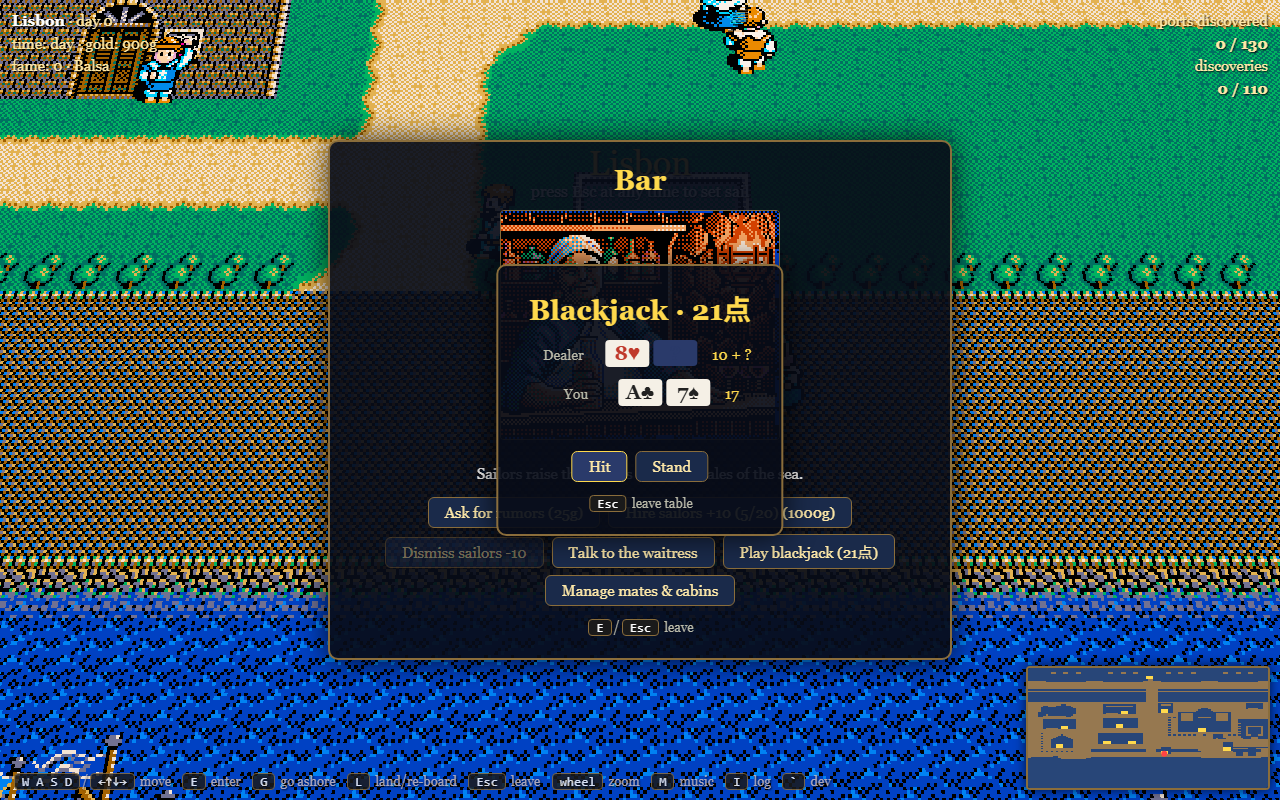
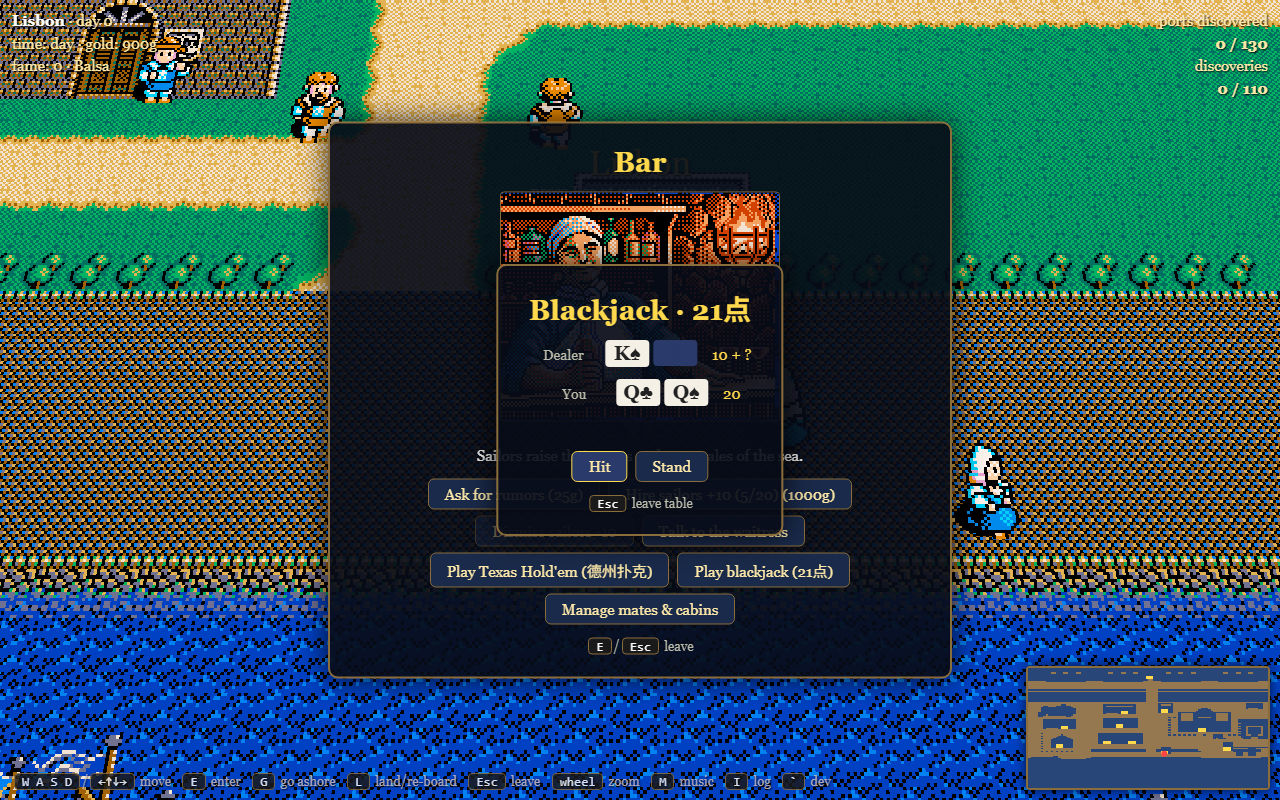
Texas Hold'em in the bar + fix card rank mapping
- heads-up hold'em: blinds, 4 streets, fold/check-call/raise, dealer AI,
  full 7-card hand evaluator with wheel and tiebreakers
- fix bjValue/evalHand rank mapping (ace-high) via shared cardRank
- bump main.js version

diff --git a/game/main.js b/game/main.js
@@ -390,16 +390,189 @@ function closeTopPanel() {
 }
 
 // ---------------------------------------------------------------------------
+// Texas Hold'em (德州扑克) in the bar: heads-up vs the dealer
+// ---------------------------------------------------------------------------
+const pokerPanel = document.getElementById('poker-panel');
+let pk = null;
+
+// --- 7-card hand evaluation: returns [category, ...tiebreakers] ---
+const PK_HANDS = ['High Card', 'One Pair', 'Two Pair', 'Three of a Kind', 'Straight',
+                  'Flush', 'Full House', 'Four of a Kind', 'Straight Flush'];
+function evalHand(cards) {
+  const ranks = cards.map(cardRank).sort((a, b) => b - a);
+  const suits = cards.map(c => Math.floor((c - 1) / 13));
+  const cnt = {};
+  for (const r of ranks) cnt[r] = (cnt[r] ?? 0) + 1;
+  const groups = Object.entries(cnt).map(([r, n]) => [+r, n])
+    .sort((a, b) => b[1] - a[1] || b[0] - a[0]);
+  const suitCnt = [0, 0, 0, 0];
+  for (const s of suits) suitCnt[s]++;
+  const flushSuit = suitCnt.findIndex(n => n >= 5);
+  const straightOf = rs => {
+    const u = [...new Set(rs)].sort((a, b) => b - a);
+    for (let i = 0; i + 4 < u.length; i++) if (u[i] - u[i + 4] === 4) return u[i];
+    if (u.includes(14) && [2, 3, 4, 5].every(r => u.includes(r))) return 5;   // wheel
+    return 0;
+  };
+  const straight = straightOf(ranks);
+  const kickers = n => groups.filter(g => g[1] === 1).map(g => g[0]).slice(0, n);
+  if (flushSuit >= 0) {
+    const sf = straightOf(cards.filter(c => Math.floor((c - 1) / 13) === flushSuit)
+                              .map(cardRank));
+    if (sf) return [8, sf];
+  }
+  if (groups[0][1] === 4) return [7, groups[0][0], ...kickers(1)];
+  if (groups[0][1] === 3 && groups[1]?.[1] === 2) return [6, groups[0][0], groups[1][0]];
+  if (flushSuit >= 0) return [5, ...ranks.slice(0, 5)];
+  if (straight) return [4, straight];
+  if (groups[0][1] === 3) return [3, groups[0][0], ...kickers(2)];
+  if (groups[0][1] === 2 && groups[1]?.[1] === 2) return [2, groups[0][0], groups[1][0], ...kickers(1)];
+  if (groups[0][1] === 2) return [1, groups[0][0], ...kickers(3)];
+  return [0, ...ranks.slice(0, 5)];
+}
+const cmpHands = (a, b) => {
+  for (let i = 0; i < Math.max(a.length, b.length); i++) {
+    const d = (a[i] ?? 0) - (b[i] ?? 0);
+    if (d) return d;
+  }
+  return 0;
+};
+
+// --- dealer AI: rough strength estimate ---
+function aiStrength() {
+  const all = pk.board.concat(pk.dealer);
+  if (pk.board.length >= 3) {
+    const [cat, ...tb] = evalHand(all);
+    let s = cat * 10 + (tb[0] ?? 0) / 14 * 3;
+    // draw bonuses
+    const suits = all.map(c => Math.floor((c - 1) / 13));
+    if ([0, 1, 2, 3].some(x => suits.filter(y => y === x).length === 4)) s += 2;
+    const rs = [...new Set(all.map(cardRank))];
+    if (rs.length >= 4 && (rs[0] - rs[3] === 3)) s += 1.5;
+    return s;
+  }
+  // preflop hole-card heuristic
+  const [a, b] = pk.dealer.map(cardRank).sort((x, y) => y - x);
+  const suited = Math.floor((pk.dealer[0] - 1) / 13) === Math.floor((pk.dealer[1] - 1) / 13);
+  let s = a === b ? 8 + a / 2 : a / 3 + (suited ? 1.5 : 0) + (a - b === 1 ? 1 : 0);
+  return s;
+}
+// AI answers a raise: 'call' or 'fold'
+const aiAnswer = () => aiStrength() >= 8 + Math.random() * 6 ? 'call' : 'fold';
+
+function openPoker() {
+  pk = { deck: bjNewDeck(), dealer: [], player: [], board: [], pot: 0,
+         toCall: 0, stage: 'preflop', msg: '', state: 'act', hidden: true };
+  // blinds: player SB 10, dealer BB 20
+  P.gold -= 10;
+  pk.pot = 30;
+  pk.toCall = 10;
+  pk.player = [pk.deck.pop(), pk.deck.pop()];
+  pk.dealer = [pk.deck.pop(), pk.deck.pop()];
+  pk.msg = 'Blinds posted (you 10 / dealer 20). Your action.';
+  save();
+  renderPoker();
+}
+function closePoker() {
+  if (!pk) return;
+  pk = null;
+  pokerPanel.style.display = 'none';
+}
+
+function pkNextStreet() {
+  if (pk.stage === 'preflop') pk.board = [pk.deck.pop(), pk.deck.pop(), pk.deck.pop()];
+  else pk.board.push(pk.deck.pop());
+  pk.stage = { preflop: 'flop', flop: 'turn', turn: 'river' }[pk.stage];
+  pk.toCall = 0;
+  pk.msg = `${pk.stage.toUpperCase()} — check or raise.`;
+  pk.state = 'act';
+}
+
+function pkAction(kind) {
+  if (!pk || pk.state !== 'act') return;
+  if (kind === 'fold') return pkSettle('fold');
+  if (kind === 'raise') {
+    if (P.gold < 50) return;
+    P.gold -= 50;
+    pk.pot += 50;
+    if (aiAnswer() === 'fold') return pkSettle('aifold');
+    pk.pot += 50;   // AI calls
+    pk.msg = 'Dealer calls your raise.';
+  } else {
+    // check/call
+    if (pk.toCall > 0) {
+      P.gold -= pk.toCall;
+      pk.pot += pk.toCall;
+    }
+    pk.msg = pk.toCall > 0 ? `You call ${pk.toCall}g.` : 'Check.';
+  }
+  save();
+  if (pk.stage === 'river') return pkSettle('showdown');
+  pkNextStreet();
+  renderPoker();
+}
+
+function pkSettle(result) {
+  pk.state = 'done';
+  pk.hidden = false;
+  if (result === 'fold') {
+    pk.msg = `You folded. Dealer takes the ${pk.pot}g pot.`;
+  } else if (result === 'aifold') {
+    P.gold += pk.pot;
+    pk.msg = `Dealer folds! You take the ${pk.pot}g pot.`;
+  } else {
+    const ph = evalHand(pk.player.concat(pk.board));
+    const dh = evalHand(pk.dealer.concat(pk.board));
+    const cmp = cmpHands(ph, dh);
+    const line = `${PK_HANDS[ph[0]]} vs ${PK_HANDS[dh[0]]}`;
+    if (cmp > 0) { P.gold += pk.pot; pk.msg = `${line} — you win the ${pk.pot}g pot!`; }
+    else if (cmp < 0) pk.msg = `${line} — dealer wins the ${pk.pot}g pot.`;
+    else { P.gold += Math.floor(pk.pot / 2); pk.msg = `${line} — split pot (${Math.floor(pk.pot / 2)}g each).`; }
+  }
+  save();
+  renderPoker();
+}
+
+function renderPoker() {
+  if (!pk) { pokerPanel.style.display = 'none'; return; }
+  pokerPanel.style.display = 'block';
+  document.getElementById('pk-dealer').innerHTML =
+    pk.dealer.map(c => bjCardHtml(c, pk.hidden)).join('');
+  document.getElementById('pk-board').innerHTML = pk.board.map(c => bjCardHtml(c)).join('') || '—';
+  document.getElementById('pk-player').innerHTML = pk.player.map(c => bjCardHtml(c)).join('');
+  document.getElementById('pk-pot').textContent = pk.pot;
+  document.getElementById('pk-tocall').textContent = pk.toCall > 0 ? `to call: ${pk.toCall}g` : '';
+  document.getElementById('pk-msg').textContent = pk.msg;
+  const acts = document.getElementById('pk-actions');
+  acts.innerHTML = '';
+  const mk = (label, fn, disabled = false) => {
+    const b = document.createElement('button');
+    b.textContent = label; b.disabled = disabled; b.onclick = fn;
+    acts.appendChild(b);
+  };
+  if (pk.state === 'act') {
+    mk('Fold', () => pkAction('fold'));
+    mk(pk.toCall > 0 ? `Call ${pk.toCall}g` : 'Check', () => pkAction('call'), P.gold < pk.toCall);
+    mk('Raise 50g', () => pkAction('raise'), P.gold < 50);
+  } else {
+    mk('Next hand', () => openPoker(), P.gold < 10);
+    mk('Leave table', () => closePoker());
+  }
+}
+
+// ---------------------------------------------------------------------------
 // Blackjack (21点) in the bar
 // ---------------------------------------------------------------------------
 const bjPanel = document.getElementById('blackjack-panel');
 let bj = null;   // {deck, dealer, player, bet, state, hideHole}
 
 const BJ_SUITS = ['♠', '♥', '♦', '♣'];
-const bjValue = c => Math.min(c, 10);
+// card id = suit*13 + rank(1..13); poker rank: 2-14 with ace high
+const cardRank = c => { const r = (c - 1) % 13 + 1; return r === 1 ? 14 : r; };
+const bjValue = c => Math.min((c - 1) % 13 + 1, 10);
 function bjTotal(hand) {
   let total = 0, aces = 0;
-  for (const c of hand) { total += bjValue(c); if (c === 1) aces++; }
+  for (const c of hand) { total += bjValue(c); if ((c - 1) % 13 === 0) aces++; }
   while (aces && total + 10 <= 21) { total += 10; aces--; }
   return total;
 }
@@ -1493,6 +1666,7 @@ function buildingMenu(b) {
       if (maidId && maidsData[maidId]) {
         menu.push({ label: `Talk to the waitress`, action() { return talkToMaid(maidId); } });
       }
+      menu.push({ label: "Play Texas Hold'em (德州扑克)", action() { openPoker(); } });
       menu.push({ label: 'Play blackjack (21点)', action() { openBlackjack(); } });
       menu.push({ label: 'Manage mates & cabins', action() { openPanel('mates'); } });
       return menu;
@@ -1661,6 +1835,7 @@ function hideBuildingPanel() {
   buildingPanel.style.display = 'none';
   pendingHire = null;
   closeBlackjack();
+  closePoker();
   closeBuildingSubPanels();
   if (inBuilding && ['bar', 'church', 'palace'].includes(inBuilding.name)) {
     playMusic(portMusicFor(portId));
@@ -2713,6 +2888,7 @@ function onAshoreKey() {
 function onEscapeKey() {
   if (discoveryPanel.style.display === 'block') { discoveryPanel.style.display = 'none'; return; }
   if (bj) { closeBlackjack(); return; }
+  if (pk) { closePoker(); return; }
   if (townOpen) { closeTown(); return; }
   if (closeTopPanel()) return;
   if (scene === 'port') {
@@ -2991,6 +3167,9 @@ window.UW = {
   landOn, reboard, startLandBattle, landBattleTurn,
   openTown, startRuin, ruinNext,
   openBlackjack, bjDeal, bjHit, bjStand, getBj: () => bj && { state: bj.state, player: bjTotal(bj.player), msg: bj.msg },
+  openPoker, pkAction, evalHand, cmpHands,
+  getPk: () => pk && { stage: pk.stage, state: pk.state, pot: pk.pot, toCall: pk.toCall,
+                       board: pk.board.length, msg: pk.msg },
   getTown: () => nearestTown(), getRuin: () => nearestRuin(),
   getRuinRun: () => ruin,
   getScene2: () => scene,
@@ -3064,7 +3243,7 @@ function tick() {
 
   // --- movement input ---
   let dx = 0, dz = 0;
-  const panelOpen = discoveryPanel.style.display === 'block' || inBuilding || anyPanelOpen() || !!landBattle || townOpen || !!ruin || !!bj;
+  const panelOpen = discoveryPanel.style.display === 'block' || inBuilding || anyPanelOpen() || !!landBattle || townOpen || !!ruin || !!bj || !!pk;
   if (started && !panelOpen) {
     if (keys['w'] || keys['arrowup']) dz -= 1;
     if (keys['s'] || keys['arrowdown']) dz += 1;

diff --git a/game/index.html b/game/index.html
@@ -232,6 +232,17 @@
   </div>
 </div>
 
+<div class="panel" id="poker-panel">
+  <h2>Texas Hold'em · 德州扑克</h2>
+  <div class="bj-row"><span class="bj-label">Dealer</span> <span id="pk-dealer"></span></div>
+  <div class="bj-row"><span class="bj-label">Board</span> <span id="pk-board"></span></div>
+  <div class="bj-row"><span class="bj-label">You</span> <span id="pk-player"></span></div>
+  <p><span style="color:#ffd94d">pot: <b id="pk-pot">0</b>g</span> &nbsp;·&nbsp; <span id="pk-tocall"></span></p>
+  <p id="pk-msg"></p>
+  <div id="pk-actions"></div>
+  <div class="close-hint"><span class="key">Esc</span> leave table</div>
+</div>
+
 <div class="panel" id="blackjack-panel">
   <h2>Blackjack · 21点</h2>
   <div id="bj-table">
@@ -310,6 +321,6 @@
 <script type="importmap">
   { "imports": { "three": "./lib/three.module.js" } }
 </script>
-<script type="module" src="./main.js?v=20260725"></script>
+<script type="module" src="./main.js?v=20260726"></script>
 </body>
 </html>

diff --git a/tests/test_poker.py b/tests/test_poker.py
@@ -1,0 +1,107 @@
+"""Test Texas Hold'em in the bar."""
+from playwright.sync_api import sync_playwright
+
+URL = "http://127.0.0.1:8734/index.html"
+passed, failed = [], []
+
+def check(name, cond):
+    (passed if cond else failed).append(name)
+    print(("OK  " if cond else "FAIL"), name)
+
+with sync_playwright() as p:
+    browser = p.chromium.launch()
+    page = browser.new_page(viewport={"width": 1280, "height": 800})
+    errors = []
+    page.on("pageerror", lambda e: errors.append(str(e)))
+    page.on("console", lambda m: errors.append(m.text) if m.type == "error" else None)
+
+    page.goto(URL)
+    page.wait_for_timeout(2500)
+    page.evaluate("localStorage.clear()")
+    page.reload()
+    page.wait_for_timeout(2500)
+    page.click("#start-overlay .go")
+    page.wait_for_timeout(500)
+
+    # --- hand evaluator unit checks (via UW.evalHand) ---
+    # cards: id = suit*13 + rank (suit 0-3, rank 1-13)
+    def C(s, r): return s * 13 + r
+    royal = [C(0, 13), C(0, 12), C(0, 11), C(0, 10), C(0, 1), C(1, 5), C(2, 3)]
+    r = page.evaluate(f"window.UW.evalHand({royal})")
+    check(f"straight flush detected (cat {r[0]})", r[0] == 8)
+    quads = [C(0, 9), C(1, 9), C(2, 9), C(3, 9), C(0, 2), C(1, 4), C(2, 6)]
+    r = page.evaluate(f"window.UW.evalHand({quads})")
+    check(f"four of a kind (cat {r[0]})", r[0] == 7)
+    fh = [C(0, 5), C(1, 5), C(2, 5), C(0, 8), C(1, 8), C(2, 11), C(3, 1)]
+    r = page.evaluate(f"window.UW.evalHand({fh})")
+    check(f"full house (cat {r[0]})", r[0] == 6)
+    wheel = [C(0, 1), C(1, 2), C(2, 3), C(3, 4), C(0, 5), C(1, 9), C(2, 11)]
+    r = page.evaluate(f"window.UW.evalHand({wheel})")
+    check(f"wheel straight A-5 (cat {r[0]}, high {r[1]})", r[0] == 4 and r[1] == 5)
+    flush = [C(2, 1), C(2, 3), C(2, 5), C(2, 7), C(2, 9), C(0, 11), C(1, 13)]
+    r = page.evaluate(f"window.UW.evalHand({flush})")
+    check(f"flush (cat {r[0]})", r[0] == 5)
+    tp = [C(0, 7), C(1, 7), C(2, 11), C(3, 11), C(0, 1), C(1, 3), C(2, 6)]
+    r = page.evaluate(f"window.UW.evalHand({tp})")
+    check(f"two pair (cat {r[0]})", r[0] == 2)
+    # compare: quads beats full house
+    c = page.evaluate(f"window.UW.cmpHands(window.UW.evalHand({quads}), window.UW.evalHand({fh}))")
+    check("quads > full house", c > 0)
+
+    # --- game flow ---
+    page.evaluate("window.UW.P.gold = 1000; window.UW.save()")
+    page.evaluate("window.UW.enterPort(1)")
+    page.wait_for_timeout(1200)
+    page.evaluate("window.UW.openBuilding(window.UW.getBuildings().find(x => x.name === 'bar'))")
+    page.wait_for_timeout(200)
+    has_btn = page.evaluate("Array.from(document.querySelectorAll('#building-actions button')).some(b => b.textContent.includes('Hold'))")
+    check("poker button in bar", has_btn)
+    page.click("#building-actions button:has-text('Hold')")
+    page.wait_for_timeout(300)
+    check("poker panel opens", page.is_visible("#poker-panel"))
+    st = page.evaluate("window.UW.getPk()")
+    check(f"blinds posted (pot {st['pot']}, toCall {st['toCall']})", st["pot"] == 30 and st["toCall"] == 10)
+    check("player blind deducted (1000-10)", page.evaluate("window.UW.P.gold") == 990)
+    check("dealer cards hidden", page.evaluate("document.querySelectorAll('#pk-dealer .bj-card.back').length") == 2)
+
+    # call the blind -> flop
+    page.click("#pk-actions button:has-text('Call')")
+    page.wait_for_timeout(300)
+    st = page.evaluate("window.UW.getPk()")
+    check(f"flop dealt ({st['board']} cards, stage {st['stage']})", st["board"] == 3 and st["stage"] == "flop")
+    check("call paid (990-10)", page.evaluate("window.UW.P.gold") == 980)
+    check("pot is 40", st["pot"] == 40)
+    page.screenshot(path="tests/screenshots/poker_flop.png")
+
+    # raise on flop -> AI calls or folds
+    page.click("#pk-actions button:has-text('Raise')")
+    page.wait_for_timeout(300)
+    st = page.evaluate("window.UW.getPk()")
+    check(f"after raise stage advances ({st['stage']})", st["stage"] in ("turn",) and st["pot"] >= 40 or st["state"] == "done")
+    if st["state"] != "done":
+        # check through turn and river
+        page.click("#pk-actions button:has-text('Check')")
+        page.wait_for_timeout(300)
+        page.click("#pk-actions button:has-text('Check')")
+        page.wait_for_timeout(300)
+        st = page.evaluate("window.UW.getPk()")
+    check("hand settled at showdown", st["state"] == "done")
+    print("   result:", st["msg"])
+    check("dealer cards revealed", page.evaluate("document.querySelectorAll('#pk-dealer .bj-card.back').length") == 0)
+    page.screenshot(path="tests/screenshots/poker_showdown.png")
+
+    # next hand + fold path
+    page.click("#pk-actions button:has-text('Next hand')")
+    page.wait_for_timeout(300)
+    st = page.evaluate("window.UW.getPk()")
+    check("next hand starts", st["state"] == "act" and st["pot"] == 30)
+    page.click("#pk-actions button:has-text('Fold')")
+    page.wait_for_timeout(300)
+    check("fold settles", page.evaluate("window.UW.getPk()['state']") == "done")
+    page.keyboard.press("Escape")
+    page.wait_for_timeout(200)
+    check("esc closes poker", not page.is_visible("#poker-panel"))
+
+    print("ERRORS:", errors if errors else "none")
+    print(f"\n{len(passed)} passed, {len(failed)} failed", failed if failed else "")
+    browser.close()

diff --git a/SESSION.md b/SESSION.md
@@ -340,6 +340,15 @@ the uw2ol project, which took them from the original Uncharted Waters 2
   proper deck shuffle, soft aces, hidden hole card until stand, dealer
   draws to 17, payouts: blackjack 2.5x, win 2x, push 1x. Next hand or
   leave (Esc).
+### 23. 德州扑克 + 卡牌点数修正
+- **Texas Hold'em in the bar**: heads-up vs dealer AI. Blinds (player
+  SB 10 / dealer BB 20), four streets (preflop/flop/turn/river), one
+  decision per street (Fold / Check·Call / Raise 50), strength-based
+  dealer AI, full 7-card hand evaluation (high card → straight flush
+  with wheel and proper tiebreakers), split pots.
+- **Card rank bug**: with ids suit*13+rank, bjValue/evalHand miscounted
+  ranks (ace treated as 2, king as 14, ids >13 all counted 10 in
+  blackjack). Shared `cardRank` helper fixes both games (ace-high).
 ## Key file formats (cheat sheet)
 
 | Data | Format |